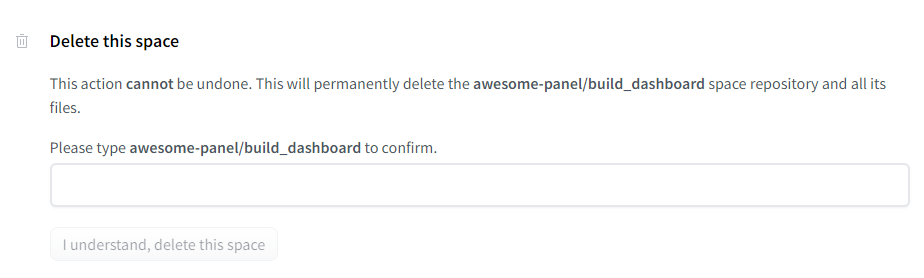
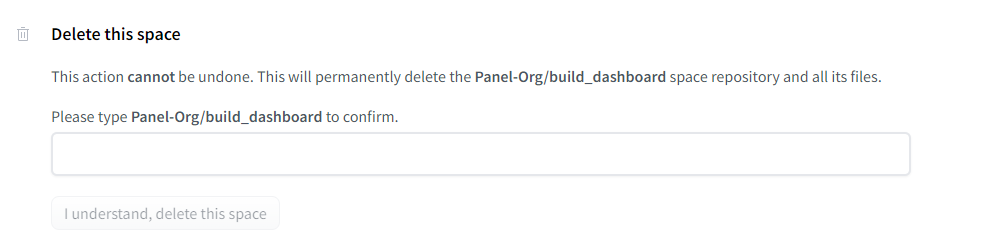
change to Panel account

diff --git a/doc/tutorials/basic/deploy.md b/doc/tutorials/basic/deploy.md
@@ -10,7 +10,7 @@ We will assume you have *signed up* for [Hugging Face](https://huggingface.co/sp
 
 ## Clone the Project
 
-Open [awesome-panel/build_dashboard](https://huggingface.co/spaces/awesome-panel/build_dashboard).
+Open [panel-Org/build_dashboard](https://huggingface.co/spaces/panel-Org/build_dashboard).
 
 Click the three vertical dots and then click *Duplicate this Space*.
 
@@ -21,6 +21,8 @@ A new form will open. Change the *Visibility* to *Public* if you want to share i
 ![Duplicate Space Form](../../_static/images/hugging_face_spaces_duplicate_form.png)
 
 Then click *Duplicate Space*.
+
+Hugging Face will now *build* your image. It should take less than a minute.
 
 You should now have your own copy of the dashboard running.
 
@@ -33,7 +35,7 @@ Lets check the files tab
 The *Files Tab* makes it really easy to update your project.
 
 - `+ Add File`: Click `+ Add File` to add or update files via *drag and drop*.
-- *File*: Click any file and then *edit* to edit it.
+- *File*: Click any file and then *edit* to edit it. Remember to *commit* when you are done.
 
 ### Check the Dockerfile
 

diff --git a/doc/tutorials/basic/index.md b/doc/tutorials/basic/index.md
@@ -300,6 +300,7 @@ Find inspiration in the community forums, ask for help, help others, share your 
 :titlesonly:
 :hidden:
 :maxdepth: 2
+:caption: Skills
 
 serve
 pn_panel
@@ -319,12 +320,28 @@ design
 style
 build_dashboard
 deploy
+```
+
+```{toctree}
+:titlesonly:
+:hidden:
+:maxdepth: 2
+:caption: Build an App
+
 build_chatbot
 build_monitoring_dashboard
 build_report
 build_todo
 build_image_classifier
 build_streaming_dashboard
+```
+
+```{toctree}
+:titlesonly:
+:hidden:
+:maxdepth: 2
+:caption: Topics
+
 explore_data
 develop_notebook
 develop_editor

diff --git a/doc/tutorials/basic/build_dashboard.md b/doc/tutorials/basic/build_dashboard.md
@@ -2,7 +2,7 @@
 
 In this tutorial we will build a beautiful dashboard showing key metrics of wind turbine manufacturers.
 
-<iframe src="https://awesome-panel-build-dashboard.hf.space" frameborder="0" style="width: 100%;height:1000px"></iframe>
+<iframe src="https://panel-org-build-dashboard.hf.space" frameborder="0" style="width: 100%;height:1000px"></iframe>
 
 Click the dropdowns below to see the requirements or the full code.
 
